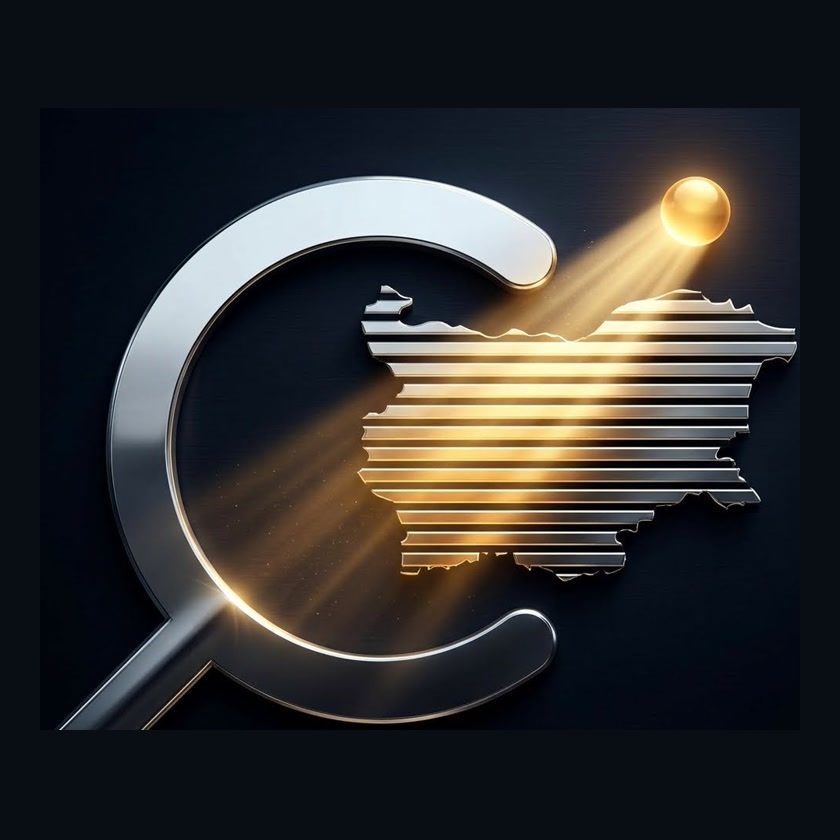
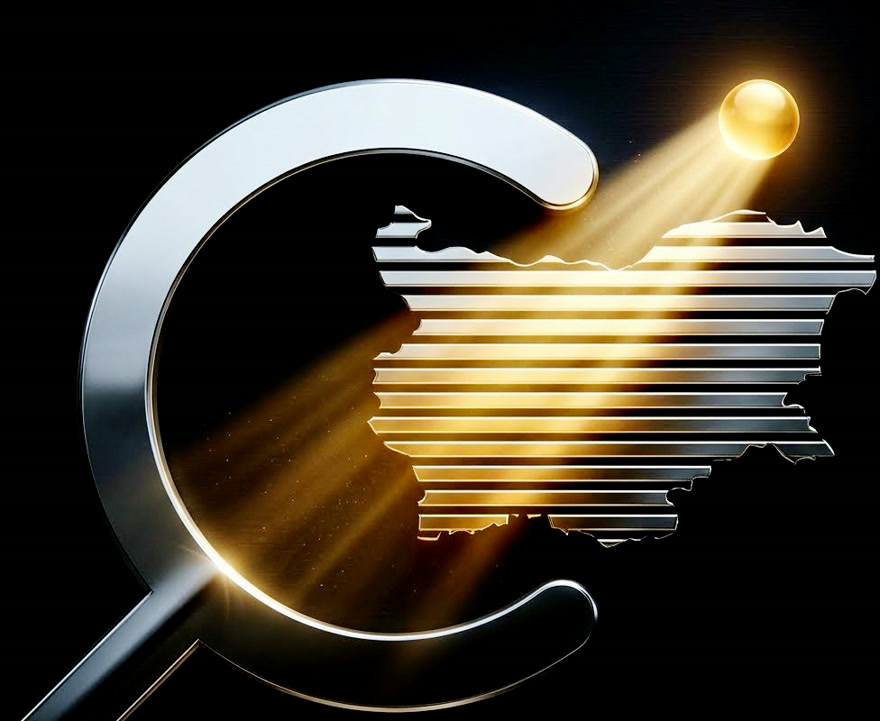
fix(hero-dark): crush dark navy background to pure #000000 black for zero-halo screen blend

diff --git a/docs/index.html b/docs/index.html
@@ -6,7 +6,7 @@
         window.location.replace('https://nasvetlo.website' + p + window.location.search + window.location.hash);
       }
     })();
-  </script><link rel="preconnect" href="https://fonts.googleapis.com"><link rel="preconnect" href="https://fonts.gstatic.com" crossorigin><link href="https://fonts.googleapis.com/css2?family=IBM+Plex+Mono:wght@400;500;600;700&family=IBM+Plex+Sans:wght@400;500;600;700&family=Newsreader:ital,wght@0,600;0,700;1,600&display=swap" rel="stylesheet"><link rel="stylesheet" href="sigma3/styles.css?v=20261120h"></head> <body> <header class="topbar"> <div class="topbar-inner"> <div class="topbar-left"> <a href="#top" class="brand-logo" aria-label="NAsvetlo — Граждански одит · CC-BY 4.0"> <img src="/logo-icon.png" alt="" aria-hidden="true" width="38" height="38" class="brand-logo-icon"> <div class="brand-logo-text"> <span class="brand-logo-name">NAsvetlo</span> <span class="brand-logo-meta">Граждански одит · CC-BY 4.0</span> </div> </a> </div> <div class="topbar-center"> <button type="button" class="btn-cmd-center" id="openCmdPaletteBtn" title="Бързо глобално търсене (Ctrl+K)"> <span class="cmd-search-icon" aria-hidden="true">⌕</span> <span class="cmd-search-label">Търсене (22 343)</span> <kbd>Ctrl K</kbd> </button> </div> <div class="topbar-right"> <button type="button" class="btn topbar-btn-ai" id="quickOpenOracleBtn">AI Асистент</button> <button type="button" class="btn topbar-btn" id="densityToggleBtn" title="Превключи между компактен одиторски изглед и презентационен изглед">Одиторски изглед</button> <button type="button" class="btn topbar-btn" id="themeToggleBtn" title="Смени светъл / тъмен режим">Тъмен режим</button> </div> </div> </header> <div class="info-subbar"> <div class="info-subbar-inner"> <div class="info-subbar-meta"> <span class="civic-positioning-tag">Независима гражданска платформа върху отворените данни (CC-BY 4.0) на МИДТ / СИГМА 2.0</span> <span class="info-subbar-sep" aria-hidden="true">·</span> <a class="info-subbar-sync" id="syncSubtitle" href="data/sigma3_judicial_6.json" target="_blank" rel="noopener" title="Преглед на актуалния JSON лог на последната синхронизация">Синхронизация: 2026-11-20</a> </div> <div class="info-subbar-links"> <button type="button" class="subbar-link-btn" id="quickOpenProposalBtn">Архитектура &amp; Методология</button> <a class="subbar-link" href="data/SIGMA_2_0_ALL_OFFICIALS_571.csv" download>CSV</a> <a class="subbar-link" href="https://sigma.midt.bg" target="_blank" rel="noopener">СИГМА 2.0 ↗</a> </div> </div> </div> <main class="container">  <!-- EXECUTIVE SOVEREIGN HERO (SIGMA.MIDT.BG SWISS EDITORIAL ARCHITECTURE) --><section class="hero" id="top"> <div class="hero-top-split hero-section"> <div class="hero-editorial-col"> <div class="hero-kicker">Публичен финансов и съдебен одит · 2020–2026 г.</div> <h1>Къде отиват <em>€53,22 млрд.</em> от обществените поръчки в България?</h1> <p class="hero-lead">
+  </script><link rel="preconnect" href="https://fonts.googleapis.com"><link rel="preconnect" href="https://fonts.gstatic.com" crossorigin><link href="https://fonts.googleapis.com/css2?family=IBM+Plex+Mono:wght@400;500;600;700&family=IBM+Plex+Sans:wght@400;500;600;700&family=Newsreader:ital,wght@0,600;0,700;1,600&display=swap" rel="stylesheet"><link rel="stylesheet" href="sigma3/styles.css?v=20261120i"></head> <body> <header class="topbar"> <div class="topbar-inner"> <div class="topbar-left"> <a href="#top" class="brand-logo" aria-label="NAsvetlo — Граждански одит · CC-BY 4.0"> <img src="/logo-icon.png" alt="" aria-hidden="true" width="38" height="38" class="brand-logo-icon"> <div class="brand-logo-text"> <span class="brand-logo-name">NAsvetlo</span> <span class="brand-logo-meta">Граждански одит · CC-BY 4.0</span> </div> </a> </div> <div class="topbar-center"> <button type="button" class="btn-cmd-center" id="openCmdPaletteBtn" title="Бързо глобално търсене (Ctrl+K)"> <span class="cmd-search-icon" aria-hidden="true">⌕</span> <span class="cmd-search-label">Търсене (22 343)</span> <kbd>Ctrl K</kbd> </button> </div> <div class="topbar-right"> <button type="button" class="btn topbar-btn-ai" id="quickOpenOracleBtn">AI Асистент</button> <button type="button" class="btn topbar-btn" id="densityToggleBtn" title="Превключи между компактен одиторски изглед и презентационен изглед">Одиторски изглед</button> <button type="button" class="btn topbar-btn" id="themeToggleBtn" title="Смени светъл / тъмен режим">Тъмен режим</button> </div> </div> </header> <div class="info-subbar"> <div class="info-subbar-inner"> <div class="info-subbar-meta"> <span class="civic-positioning-tag">Независима гражданска платформа върху отворените данни (CC-BY 4.0) на МИДТ / СИГМА 2.0</span> <span class="info-subbar-sep" aria-hidden="true">·</span> <a class="info-subbar-sync" id="syncSubtitle" href="data/sigma3_judicial_6.json" target="_blank" rel="noopener" title="Преглед на актуалния JSON лог на последната синхронизация">Синхронизация: 2026-11-20</a> </div> <div class="info-subbar-links"> <button type="button" class="subbar-link-btn" id="quickOpenProposalBtn">Архитектура &amp; Методология</button> <a class="subbar-link" href="data/SIGMA_2_0_ALL_OFFICIALS_571.csv" download>CSV</a> <a class="subbar-link" href="https://sigma.midt.bg" target="_blank" rel="noopener">СИГМА 2.0 ↗</a> </div> </div> </div> <main class="container">  <!-- EXECUTIVE SOVEREIGN HERO (SIGMA.MIDT.BG SWISS EDITORIAL ARCHITECTURE) --><section class="hero" id="top"> <div class="hero-top-split hero-section"> <div class="hero-editorial-col"> <div class="hero-kicker">Публичен финансов и съдебен одит · 2020–2026 г.</div> <h1>Къде отиват <em>€53,22 млрд.</em> от обществените поръчки в България?</h1> <p class="hero-lead">
 Проследете как държавните институции и общините разходват публичния ресурс във всички сектори — с пълно разбиване на <strong>3 427 ДЗЗД консорциума (+€1,92 млрд.)</strong>, <strong>3 035 декларации пред Сметната палата</strong>, <strong>+€1,29 млрд. анекси</strong> и живи съдебни актове от <strong>ЕПЕП, ВАС, АДФИ и КЗК</strong>. Зад всяко число стои конкретен договор или съдебен акт.
 </p> <div class="hero-search-box"> <div class="hero-search-row"> <span class="smart-search-prompt" aria-hidden="true">›</span> <input id="heroSearchInput" type="search" aria-label="Глобална проверка" placeholder="Институция, компания, ЕИК, политик, ДЗЗД или град (напр. Бургас, АПИ, 103267194)…"> <button class="btn btn-dark" id="heroSearchBtn" type="button">Намери</button> <button class="btn btn-oracle-solid" id="heroAskOracleBtn" type="button">Питай AI</button> </div> <div class="quick-cities"> <span>Бърз срез:</span> <button class="city-chip" data-quick="Благоевград">Благоевград</button> <button class="city-chip" data-quick="Хасково">Хасково</button> <button class="city-chip" data-quick="Бургас">Бургас</button> <button class="city-chip" data-quick="Варна">Варна</button> <button class="city-chip" data-quick="Пловдив">Пловдив</button> <button class="city-chip" data-quick="Стара Загора">Стара Загора</button> <button class="city-chip" data-quick="Народно събрание">Депутати (57)</button> <button class="city-chip" data-quick="ДАНС">ДАНС / ДАТО</button> <button class="city-chip chip-accent" data-jump-tab="atlas">Карта 28 области</button> <button class="city-chip chip-accent" data-jump-tab="forensics7">7 Кримин. радара</button> <button class="city-chip chip-accent" data-jump-tab="judicial6">Съдебен радар (АДФИ/КЗК)</button> </div> </div> </div> <div class="hero-emblem-stage" aria-hidden="true"> <div class="hero-emblem-visual" role="img" aria-label="NAsvetlo — Титаниево-червена лупа и златен прожектор върху картата на България"></div> </div> </div> <!-- 6-STAGE FORENSIC TOTALS STRIP (SIGMA.MIDT.BG EDITORIAL HAIRLINE GRID) --> <div class="funnel-box"> <div class="funnel-head"> <h2 class="funnel-title">Национална макрорамка и фуния на риска (клик върху показател за срез)</h2> <span class="meta-date" id="asOfChip">Данни към: 2026-11-20</span> </div> <div class="funnel-strip-grid"> <div class="funnel-step" data-jump-tab="authorities"> <div class="funnel-step-num" id="f1Val">€53,22 млрд.</div> <div> <div class="funnel-step-lbl">1. Всички поръчки (2020–2026)</div> <div class="funnel-step-sub" id="f1Sub">206 907 договора · 4 344 възложители · 17 428 фирми</div> </div> </div> <div class="funnel-step warn" data-jump-tab="cartels"> <div class="funnel-step-num" id="f2Val">€18,50 млрд.</div> <div> <div class="funnel-step-lbl">2. Една оферта / Пряко</div> <div class="funnel-step-sub" id="f2Sub">40,7% с 1 оферта · €5,92 млрд. неконкурентни</div> </div> </div> <div class="funnel-step" data-jump-filter="all"> <div class="funnel-step-num">571 лица</div> <div> <div class="funnel-step-lbl">3. Свързани лица (СИГМА)</div> <div class="funnel-step-sub">€180,8 млн. в мандата · €2,225 млрд. общо</div> </div> </div> <div class="funnel-step danger" data-jump-filter="own"> <div class="funnel-step-num">53 лица</div> <div> <div class="funnel-step-lbl">4. Самовъзлагане</div> <div class="funnel-step-sub">Договори от собствената институция</div> </div> </div> <div class="funnel-step plum" data-jump-tab="deep"> <div class="funnel-step-num" id="heroDeepNum">+€1,92 млрд.</div> <div> <div class="funnel-step-lbl">5. Скрити ДЗЗД + XML</div> <div class="funnel-step-sub" id="heroDeepSub">338 скрити ДЗЗД на 76 лица + 16 нови лица</div> </div> </div> <div class="funnel-step navy" data-jump-tab="cartels"> <div class="funnel-step-num" id="heroCartelNum">MAD 0,0122</div> <div> <div class="funnel-step-lbl">6. Картели и Бенфорд</div> <div class="funnel-step-sub" id="heroCartelSub">60 ДЗЗД двойки · Топ 1% държат 48,3% (Gini 0,91)</div> </div> </div> </div> </div> </section> <!-- PUBLIC AUDIT SESSION COUNTER + TOP 50 CONCENTRATION HIERARCHY TRIGGER --> <div class="hof-trigger-wrap"> <div class="truth-counter" id="truthCounter" aria-live="polite"> <span class="truth-live-dot" aria-hidden="true"></span> <div class="truth-counter-text"> <span class="truth-counter-label">ПУБЛИЧНИ ОДИТНИ СЕСИИ И ИНСПЕКЦИИ</span> <span class="truth-counter-sub">Верифицирани прегледи на националния регистър</span> </div> <span class="truth-counter-num" id="visitorCountVal">1 420</span> </div> <button type="button" class="hof-trigger" id="hofOpenBtn" aria-haspopup="dialog" aria-controls="hofModal"> <span class="hof-trigger-inner"> <span class="hof-trigger-left"> <span class="hof-trigger-badge">ТОП 50 · КОНЦЕНТРАЦИЯ</span> <span class="hof-trigger-label">ЙЕРАРХИЯ ПО ФИНАНСОВ ОБЕМ И РИСК</span> </span> <span class="hof-trigger-meta" id="hofTriggerTeaser">Топ 50 по официални данни на СИГМА 2.0 и скрити ДЗЗД консорциуми</span> <span class="hof-trigger-cta">ОТВОРИ &rarr;</span> </span> </button> </div> <!-- PRIMARY 12-MODULE NAVIGATION TABS --><nav class="tabs" id="mainTabs" role="tablist" aria-label="Аналитични модули на NAsvetlo"> <button class="tab-btn active" data-tab="dashboard">Команден пулт</button> <button class="tab-btn" data-tab="atlas">Атлас 28 области</button> <button class="tab-btn" data-tab="directory">Свързани лица (571)</button> <button class="tab-btn" data-tab="deep">Отвъд СИГМА 2.0 (ДЗЗД/XML)</button> <button class="tab-btn tab-btn-forensics" data-tab="forensics7">7 Криминалистични радара</button> <button class="tab-btn tab-btn-judicial" data-tab="judicial6">Съдебен радар (АОП × Съд)</button> <button class="tab-btn" data-tab="cartels">Картели, Бенфорд и HHI</button> <button class="tab-btn" data-tab="authorities">Институции (4 344)</button> <button class="tab-btn" data-tab="companies">Компании и ДЗЗД (17 428)</button> <button class="tab-btn" data-tab="graph">Мрежов граф (9 типа)</button> <button class="tab-btn tab-btn-oracle" data-tab="oracle">AI Асистент (ORACLE)</button> <button class="tab-btn tab-btn-proposal" data-tab="proposal">Архитектура &amp; Методология</button> </nav> <!-- =================================================================== --><!-- TAB 1: MACRO COMMAND DASHBOARD --><!-- =================================================================== --><section class="tab-panel active" id="tab-dashboard"> <!-- 83-Month Time Series + Annual Breakdown --> <div class="panel-box" style="margin-bottom:18px;"> <div class="chart-head"> <div> <h2 class="chart-title">Динамика на обществените поръчки в България (2020–2026 г.)</h2> <p class="chart-caption" style="margin-bottom:0;" id="trendsCaption">83 месечни периода от ЦАИС ЕОП · Общо €53,22 млрд. · Рекорден месец: февруари 2026 г. (€2,65 млрд.)</p> </div> <div class="pill-row" id="trendModePills"> <button class="pill active" data-trend-mode="months">Месечен пулс (83 мес.)</button> <button class="pill" data-trend-mode="years">Годишен сравнителен (7 г.)</button> </div> </div> <div id="trendChartHost" class="trend-chart-host"></div> <div class="trend-years-strip" id="trendYearsStrip"></div> </div> <!-- Interactive Top 20 Sankey Money Flows + CPV Sectors --> <div class="two-col-wide" style="margin-bottom:18px;"> <article class="panel-box"> <div class="chart-head"> <h3 style="margin:0;border:none;padding:0;">Парични потоци: Топ 20 двойки Институция &rarr; Изпълнител</h3> <span class="meta-date">Посочи поток · Клик за детайли</span> </div> <p class="chart-caption">Интерактивна диаграма на договорните потоци по реалните данни от ЦАИС ЕОП. Акцентните ленти маркират консорциуми (ДЗЗД).</p> <div class="sankey-wrap" id="sankeyHost"></div> <div class="sankey-readout" id="sankeyReadout">Посочете поток или институция, за да видите точната сума и брой договори.</div> </article> <article class="panel-box"> <div class="chart-head"> <h3 style="margin:0;border:none;padding:0;">CPV сектори и дял на ДЗЗД консорциумите</h3> <span class="meta-date">17 428 изпълнители</span> </div> <p class="chart-caption">В строителството (CPV 45, €21,24 млрд.) близо 40% (€8,31 млрд.) минават през ДЗЗД обединения, невидими при директно ЕИК обвързване.</p> <div id="cpvSectorsHost"></div> </article> </div> <!-- 2x2 Classic Citizen Charts (Sector Funding, 571 Donut, Top 10, Competition Gauges) --> <section class="charts-grid" aria-label="Ключови диаграми"> <article class="chart-card"> <div class="chart-head"> <h2 class="chart-title">Къде отиват парите на свързаните лица в мандата</h2> <span class="meta-date">Клик за филтър</span> </div> <p class="chart-caption">77,2% от стойността в декларирания период минават през общини и общински съвети.</p> <div id="chartSectorBars"></div> </article> <article class="chart-card"> <div class="chart-head"> <h2 class="chart-title">Профил на риска на всички 571 лица</h2> <span class="meta-date">Клик върху сегмент</span> </div> <p class="chart-caption">Разпределение по директен конфликт със собствената институция, мандатни договори и членове на съвети.</p> <div id="chartDonutWrap" class="donut-layout"></div> </article> <article class="chart-card"> <div class="chart-head"> <h2 class="chart-title">Топ 10 най-големи случая в периода на мандата</h2> <span class="meta-date">Клик за досие</span> </div> <p class="chart-caption">Червените ленти отбелязват лица, чиито фирми печелят от собствената им институция.</p> <div id="chartTop10Bars"></div> </article> <article class="chart-card"> <div class="chart-head"> <h2 class="chart-title">Национална конкуренция и единични оферти</h2> <span class="meta-date">Национален срез · АОП</span> </div> <p class="chart-caption">Дял на поръчките с 1 оферта и неконкурентните процедури върху 206 907 договора.</p> <div id="chartCompetitionGauge"></div> </article> </section> <!-- Live Single-Offer Mega-Contracts Feed with Direct Live JSON Inspection --> <div class="panel-box"> <div class="chart-head"> <div> <h3 style="margin:0;border:none;padding:0;">Жива криминалистична емисия: Мега-договори с 1 оферта</h3> <p class="chart-caption" style="margin-bottom:0;">Кликнете <strong>„Удостовери в реално време“</strong> за директна проверка в официалния регистър ЦАИС ЕОП / СИГМА (анекси, оферти, CPV кохорта, обособени позиции).</p> </div> <div class="pill-row" id="liveContractsPills"> <button class="pill active" data-lc-mode="top">Топ 10 най-големи с 1 оферта</button> <button class="pill" data-lc-mode="recent">10 най-нови (ноември 2026)</button> </div> </div> <div class="table-wrap" style="border:none;margin-top:10px;"> <table> <thead> <tr> <th>№</th> <th>Дата / УНП</th> <th>Предмет на поръчката и възложител</th> <th>Изпълнител</th> <th class="num">Стойност (€)</th> <th>Жива проверка</th> </tr> </thead> <tbody id="liveSingleOfferTbody"></tbody> </table> </div> </div> </section> <!-- =================================================================== --><!-- TAB 2: 28-OBLAST INTERACTIVE CARTOGRAPHIC RISK ATLAS --><!-- =================================================================== --><section class="tab-panel" id="tab-atlas" hidden> <div class="editorial-note"> <div> <strong>Интерактивен 28-областен атлас (GISCO NUTS 2021 + ЦАИС ЕОП + Сметна палата + ДЗЗД):</strong>
 За разлика от СИГМА 2.0, която визуализира единствено общите разходи по области, <strong>NAsvetlo</strong> наслагва върху всяка област свързаните длъжностни лица, случаите на самовъзлагане, скритите ДЗЗД обеми и съставен индекс на риска.

diff --git a/src/styles/base/_core.scss b/src/styles/base/_core.scss
@@ -463,11 +463,11 @@ code {
 }
 [data-theme="dark"] .hero-emblem-visual,
 .dark .hero-emblem-visual {
-  aspect-ratio: 1 / 1;
-  background-image: url('./hero-emblem-dark.jpg?v=20261120h');
-  mix-blend-mode: lighten;
-  -webkit-mask-image: radial-gradient(circle at center, #000 58%, transparent 88%);
-  mask-image: radial-gradient(circle at center, #000 58%, transparent 88%);
+  aspect-ratio: 976 / 800;
+  background-image: url('./hero-emblem-dark.jpg?v=20261120i');
+  mix-blend-mode: screen;
+  -webkit-mask-image: none;
+  mask-image: none;
 }
 @media (max-width: 960px) {
   .hero-top-split {

diff --git a/docs/sigma3/styles.css b/docs/sigma3/styles.css
@@ -515,11 +515,11 @@ code {
 
 [data-theme=dark] .hero-emblem-visual,
 .dark .hero-emblem-visual {
-  aspect-ratio: 1/1;
-  background-image: url("./hero-emblem-dark.jpg?v=20261120h");
-  mix-blend-mode: lighten;
-  -webkit-mask-image: radial-gradient(circle at center, #000 58%, transparent 88%);
-  mask-image: radial-gradient(circle at center, #000 58%, transparent 88%);
+  aspect-ratio: 976/800;
+  background-image: url("./hero-emblem-dark.jpg?v=20261120i");
+  mix-blend-mode: screen;
+  -webkit-mask-image: none;
+  mask-image: none;
 }
 
 @media (max-width: 960px) {
